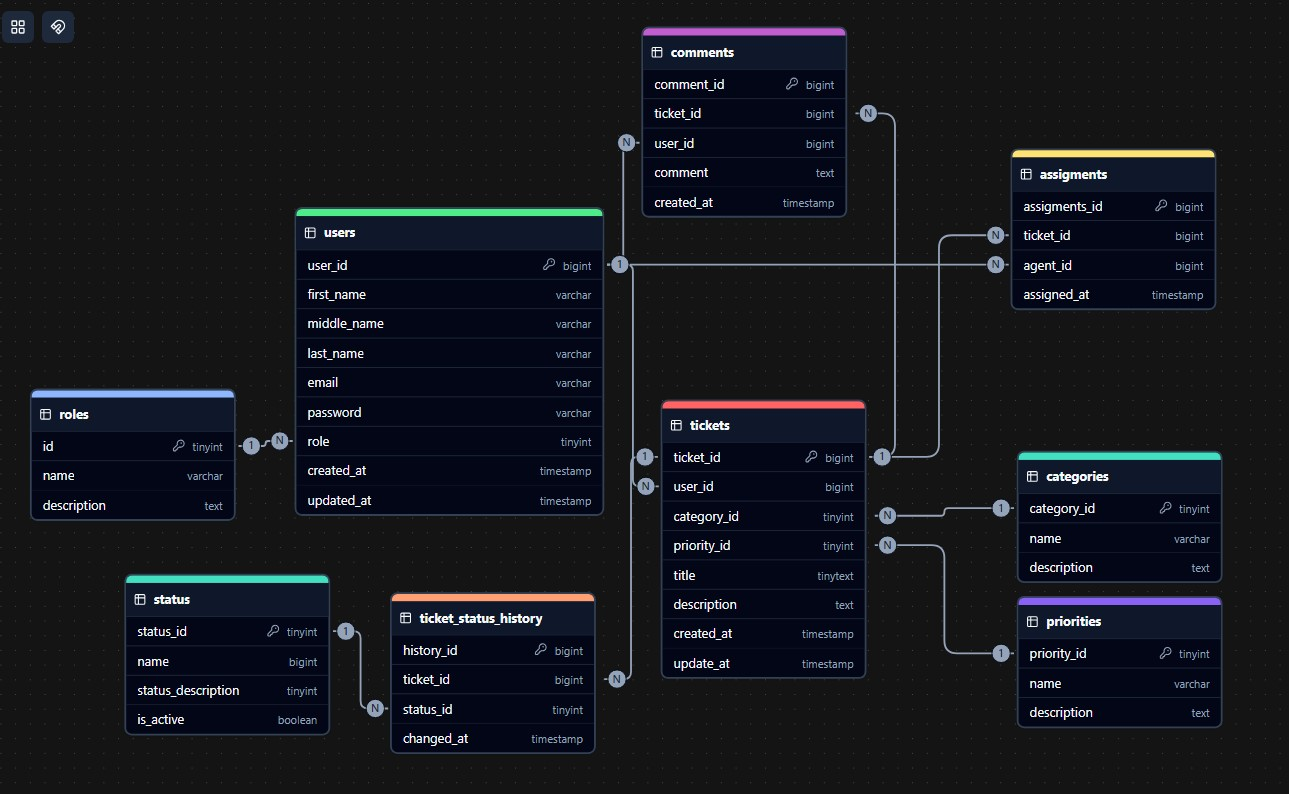
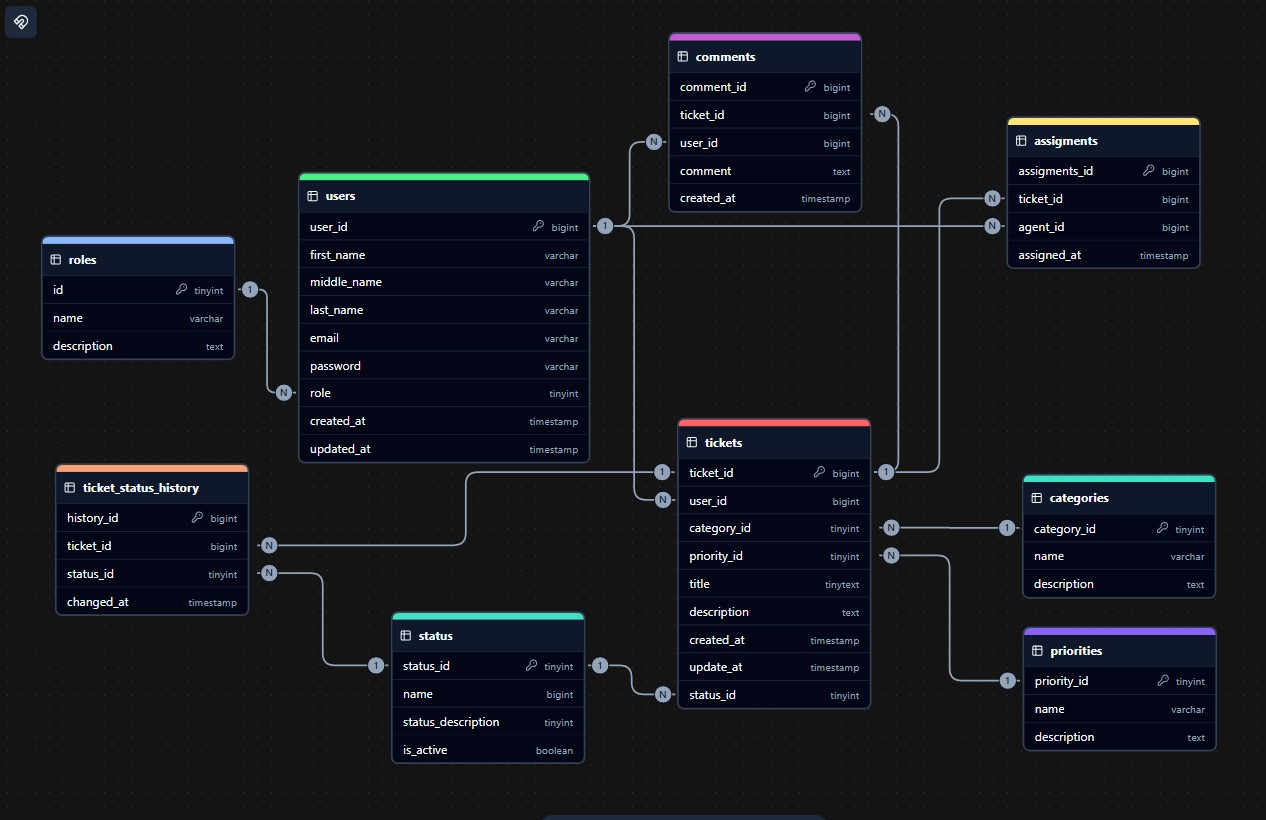
create Repositories and add FK in tickets from status

diff --git a/dataBase/Deskify/src/main/java/com/deskify/model/Ticket.java b/dataBase/Deskify/src/main/java/com/deskify/model/Ticket.java
@@ -30,6 +30,10 @@ public class Ticket {
     @Column(name = "description", nullable = false, columnDefinition = "TEXT")
     private String description;
 
+    @ManyToOne
+    @JoinColumn(name = "status_id", nullable = false)
+    private Priority status;
+
     @Column(name = "created_at", nullable = false, updatable = false)
     private LocalDateTime createdAt;
 
@@ -39,12 +43,13 @@ public class Ticket {
     public Ticket() {
     }
 
-    public Ticket(User user, Category category, Priority priority, String title, String description) {
+    public Ticket(User user, Category category, Priority priority, String title, String description, Priority status) {
         this.user = user;
         this.category = category;
         this.priority = priority;
         this.title = title;
         this.description = description;
+        this.status = status;
     }
 
     @PrePersist
@@ -105,6 +110,14 @@ public class Ticket {
         this.description = description;
     }
 
+    public Priority getStatus() {
+        return status;
+    }
+
+    public void setStatus(Priority status) {
+        this.status = status;
+    }
+
     public LocalDateTime getCreatedAt() {
         return createdAt;
     }
@@ -116,8 +129,8 @@ public class Ticket {
     @Override
     public String toString() {
         return "Ticket [id=" + id + ", user=" + user + ", category=" + category + ", priority=" + priority + ", title="
-                + title + ", description=" + description + ", createdAt=" + createdAt + ", updatedAt=" + updatedAt
-                + "]";
+                + title + ", description=" + description + ", status=" + status + ", createdAt=" + createdAt
+                + ", updatedAt=" + updatedAt + "]";
     }
 
 }

diff --git a/dataBase/Deskify/src/main/java/com/deskify/repository/TicketRepository.java b/dataBase/Deskify/src/main/java/com/deskify/repository/TicketRepository.java
@@ -1,0 +1,20 @@
+package com.deskify.repository;
+
+import java.util.List;
+
+import org.springframework.data.jpa.repository.JpaRepository;
+import org.springframework.stereotype.Repository;
+
+import com.deskify.model.Ticket;
+
+@Repository
+public interface TicketRepository extends JpaRepository<Ticket, Long> {
+    
+    List<Ticket> findByUserId(Long userId);
+
+    List<Ticket> findByCategoryId(Long categoryId);
+
+    List<Ticket> findByPriorityId(Long priorityId);
+
+    List<Ticket> findByStatusId(Long statusId);
+}

diff --git a/dataBase/Deskify/src/main/java/com/deskify/repository/UserRepository.java b/dataBase/Deskify/src/main/java/com/deskify/repository/UserRepository.java
@@ -1,0 +1,13 @@
+package com.deskify.repository;
+
+import org.springframework.data.jpa.repository.JpaRepository;
+import org.springframework.stereotype.Repository;
+
+import com.deskify.model.User;
+
+@Repository
+public interface UserRepository extends JpaRepository<User, Long> {
+
+    User findByEmail(String email);
+
+}

diff --git a/dataBase/Deskify/src/main/java/com/deskify/repository/TicketHistoryRepository.java b/dataBase/Deskify/src/main/java/com/deskify/repository/TicketHistoryRepository.java
@@ -1,0 +1,11 @@
+package com.deskify.repository;
+
+import org.springframework.data.jpa.repository.JpaRepository;
+import org.springframework.stereotype.Repository;
+
+import com.deskify.model.TicketHistory;
+
+@Repository
+public interface TicketHistoryRepository extends JpaRepository<TicketHistory, Long> {
+
+}

diff --git a/dataBase/Deskify/src/main/java/com/deskify/repository/AssigmentRepository.java b/dataBase/Deskify/src/main/java/com/deskify/repository/AssigmentRepository.java
@@ -1,0 +1,11 @@
+package com.deskify.repository;
+
+import org.springframework.data.jpa.repository.JpaRepository;
+import org.springframework.stereotype.Repository;
+
+import com.deskify.model.Assigment;
+
+@Repository
+public interface AssigmentRepository extends JpaRepository<Assigment, Long>  {
+
+}

diff --git a/dataBase/Deskify/src/main/java/com/deskify/repository/PriorityRepository.java b/dataBase/Deskify/src/main/java/com/deskify/repository/PriorityRepository.java
@@ -1,0 +1,11 @@
+package com.deskify.repository;
+
+import org.springframework.data.jpa.repository.JpaRepository;
+import org.springframework.stereotype.Repository;
+
+import com.deskify.model.Priority;
+
+@Repository
+public interface PriorityRepository extends JpaRepository<Priority, Long>  {
+
+}

diff --git a/dataBase/Deskify/src/main/java/com/deskify/repository/CategoryRepository.java b/dataBase/Deskify/src/main/java/com/deskify/repository/CategoryRepository.java
@@ -1,0 +1,11 @@
+package com.deskify.repository;
+
+import org.springframework.data.jpa.repository.JpaRepository;
+import org.springframework.stereotype.Repository;
+
+import com.deskify.model.Category;
+
+@Repository
+public interface CategoryRepository extends JpaRepository<Category, Long> {
+
+}

diff --git a/dataBase/Deskify/src/main/java/com/deskify/repository/CommentRepository.java b/dataBase/Deskify/src/main/java/com/deskify/repository/CommentRepository.java
@@ -1,0 +1,11 @@
+package com.deskify.repository;
+
+import org.springframework.data.jpa.repository.JpaRepository;
+import org.springframework.stereotype.Repository;
+
+import com.deskify.model.Comment;
+
+@Repository
+public interface CommentRepository extends JpaRepository<Comment, Long> {
+
+}

diff --git a/dataBase/Deskify/src/main/java/com/deskify/repository/StatusRepository.java b/dataBase/Deskify/src/main/java/com/deskify/repository/StatusRepository.java
@@ -1,0 +1,11 @@
+package com.deskify.repository;
+
+import org.springframework.data.jpa.repository.JpaRepository;
+import org.springframework.stereotype.Repository;
+
+import com.deskify.model.Status;
+
+@Repository
+public interface StatusRepository extends JpaRepository<Status, Long>  {
+
+}

diff --git a/dataBase/Deskify/src/main/java/com/deskify/repository/RoleRepository.java b/dataBase/Deskify/src/main/java/com/deskify/repository/RoleRepository.java
@@ -1,0 +1,11 @@
+package com.deskify.repository;
+
+import org.springframework.data.jpa.repository.JpaRepository;
+import org.springframework.stereotype.Repository;
+
+import com.deskify.model.Role;
+ 
+@Repository
+public interface RoleRepository extends JpaRepository<Role, Long>  {
+
+}
